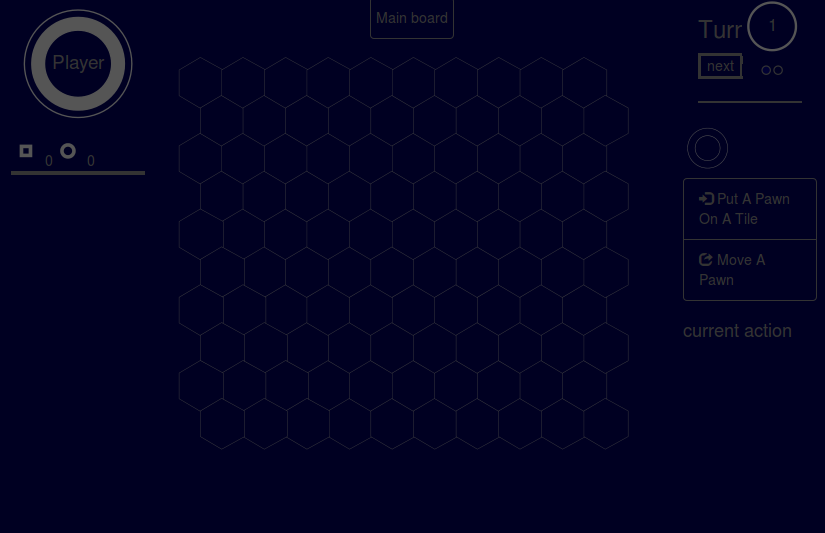
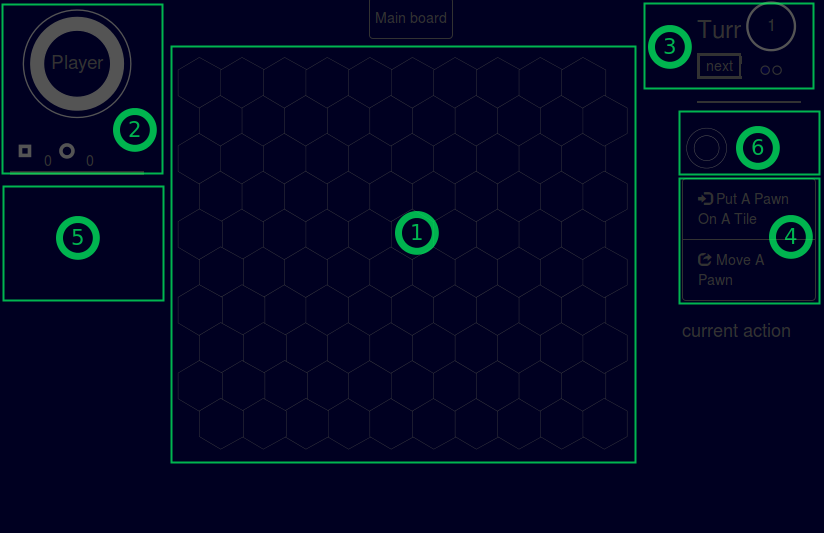
Annotate game screenshot

diff --git a/index.html b/index.html
@@ -426,12 +426,12 @@
                     <h2>Le jeu</h2>
  
                     <p>
-                        L'écran de jeu est une interface générique quelque soit le jeu en cours de création. On y retrouve les différents éléments utiles au déroulement d'une partie : gestion des tours, information sur le joueur, actions possibles, élément sélectionné.
+                        L'écran de jeu est une interface générique quelque soit le jeu en cours de création. On y retrouve les différents éléments utiles au déroulement d'une partie : zone de jeu (1), information sur le joueur (2), gestion des tours (3), actions possibles (4), élément sélectionné (5).
                     </p>
                     <p>
                         Cette partie est directement mise à jour en fonction du livre de règle: ajoutez un type de token et il devient disponible dans le jeu, ajoutez une nouvelle action ou changez le déroulement d'un tour et le jeu le prend en compte.
                         <br>
-                        Dans le proto, le jeu est en mode "debug", cela signifie qu'il y a certaines informations en plus et des possibilités offertes normalement interdites. On peut par exemple poser tous les type de token sur le plateau même si aucune action ne le permet dans les règles.
+                        Dans le proto, le jeu est en mode "debug", cela signifie qu'il y a certaines informations en plus et des possibilités offertes normalement interdites. On peut par exemple poser tous les type de token sur le plateau même si aucune action ne le permet dans les règles (6).
                     </p>
                     <p>
                         Dans le futur, le créateur du jeu pourra choisir les éléments à afficher ainsi que leur disposition. D'autres éléments seront également implémentés : historique des actions jouées et des événements, fenêtre de discussion entre joueurs, statistiques.
